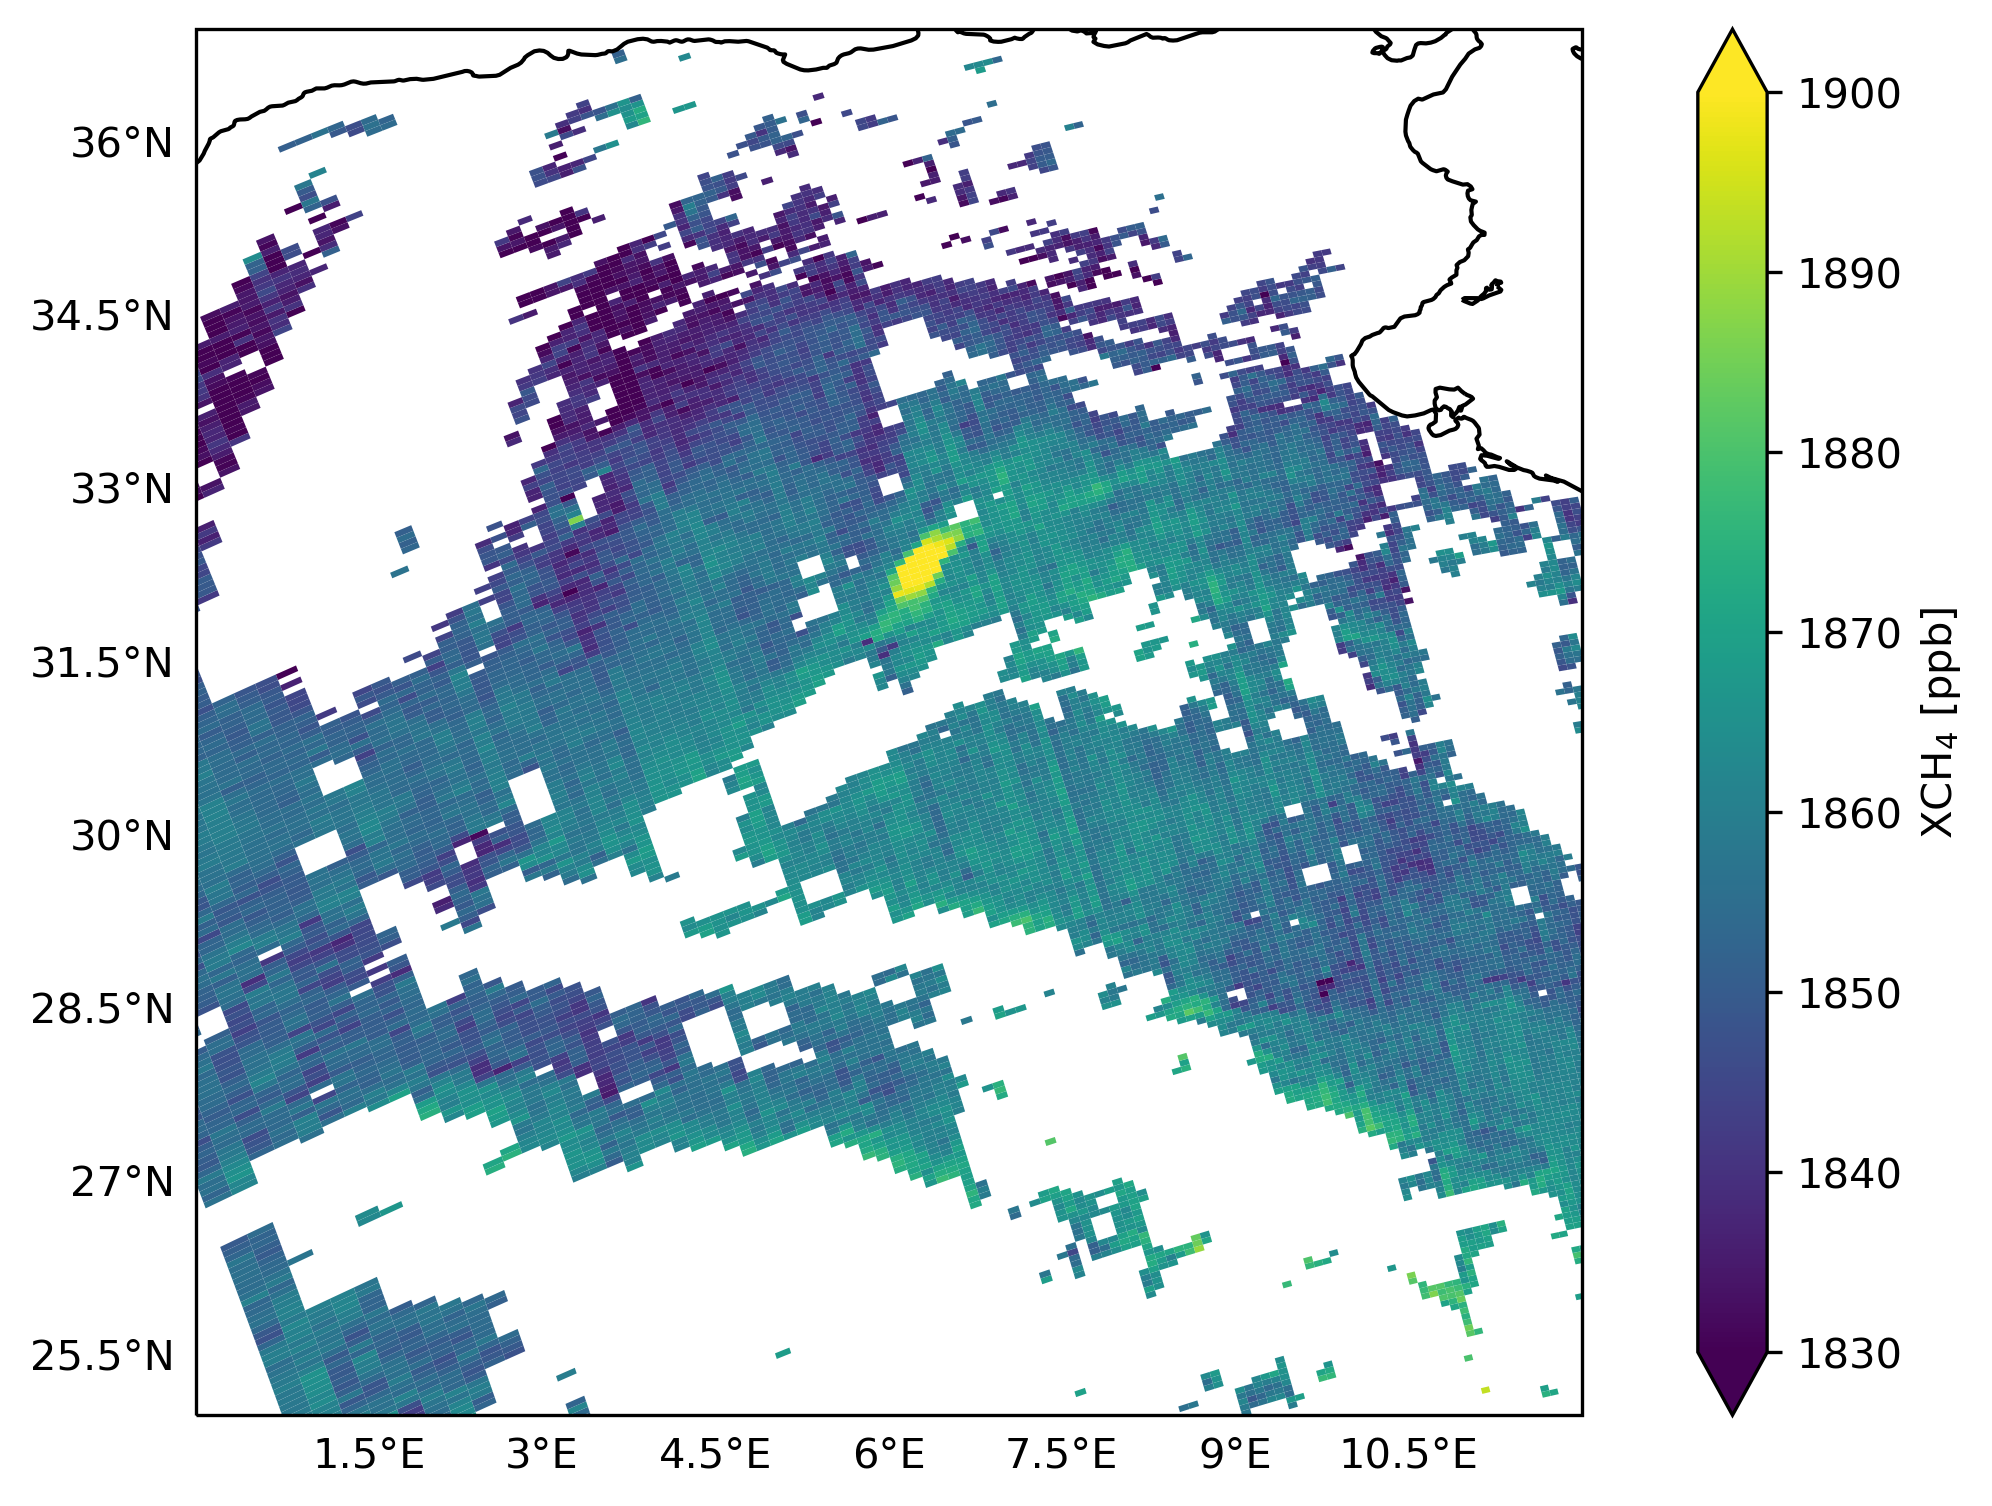
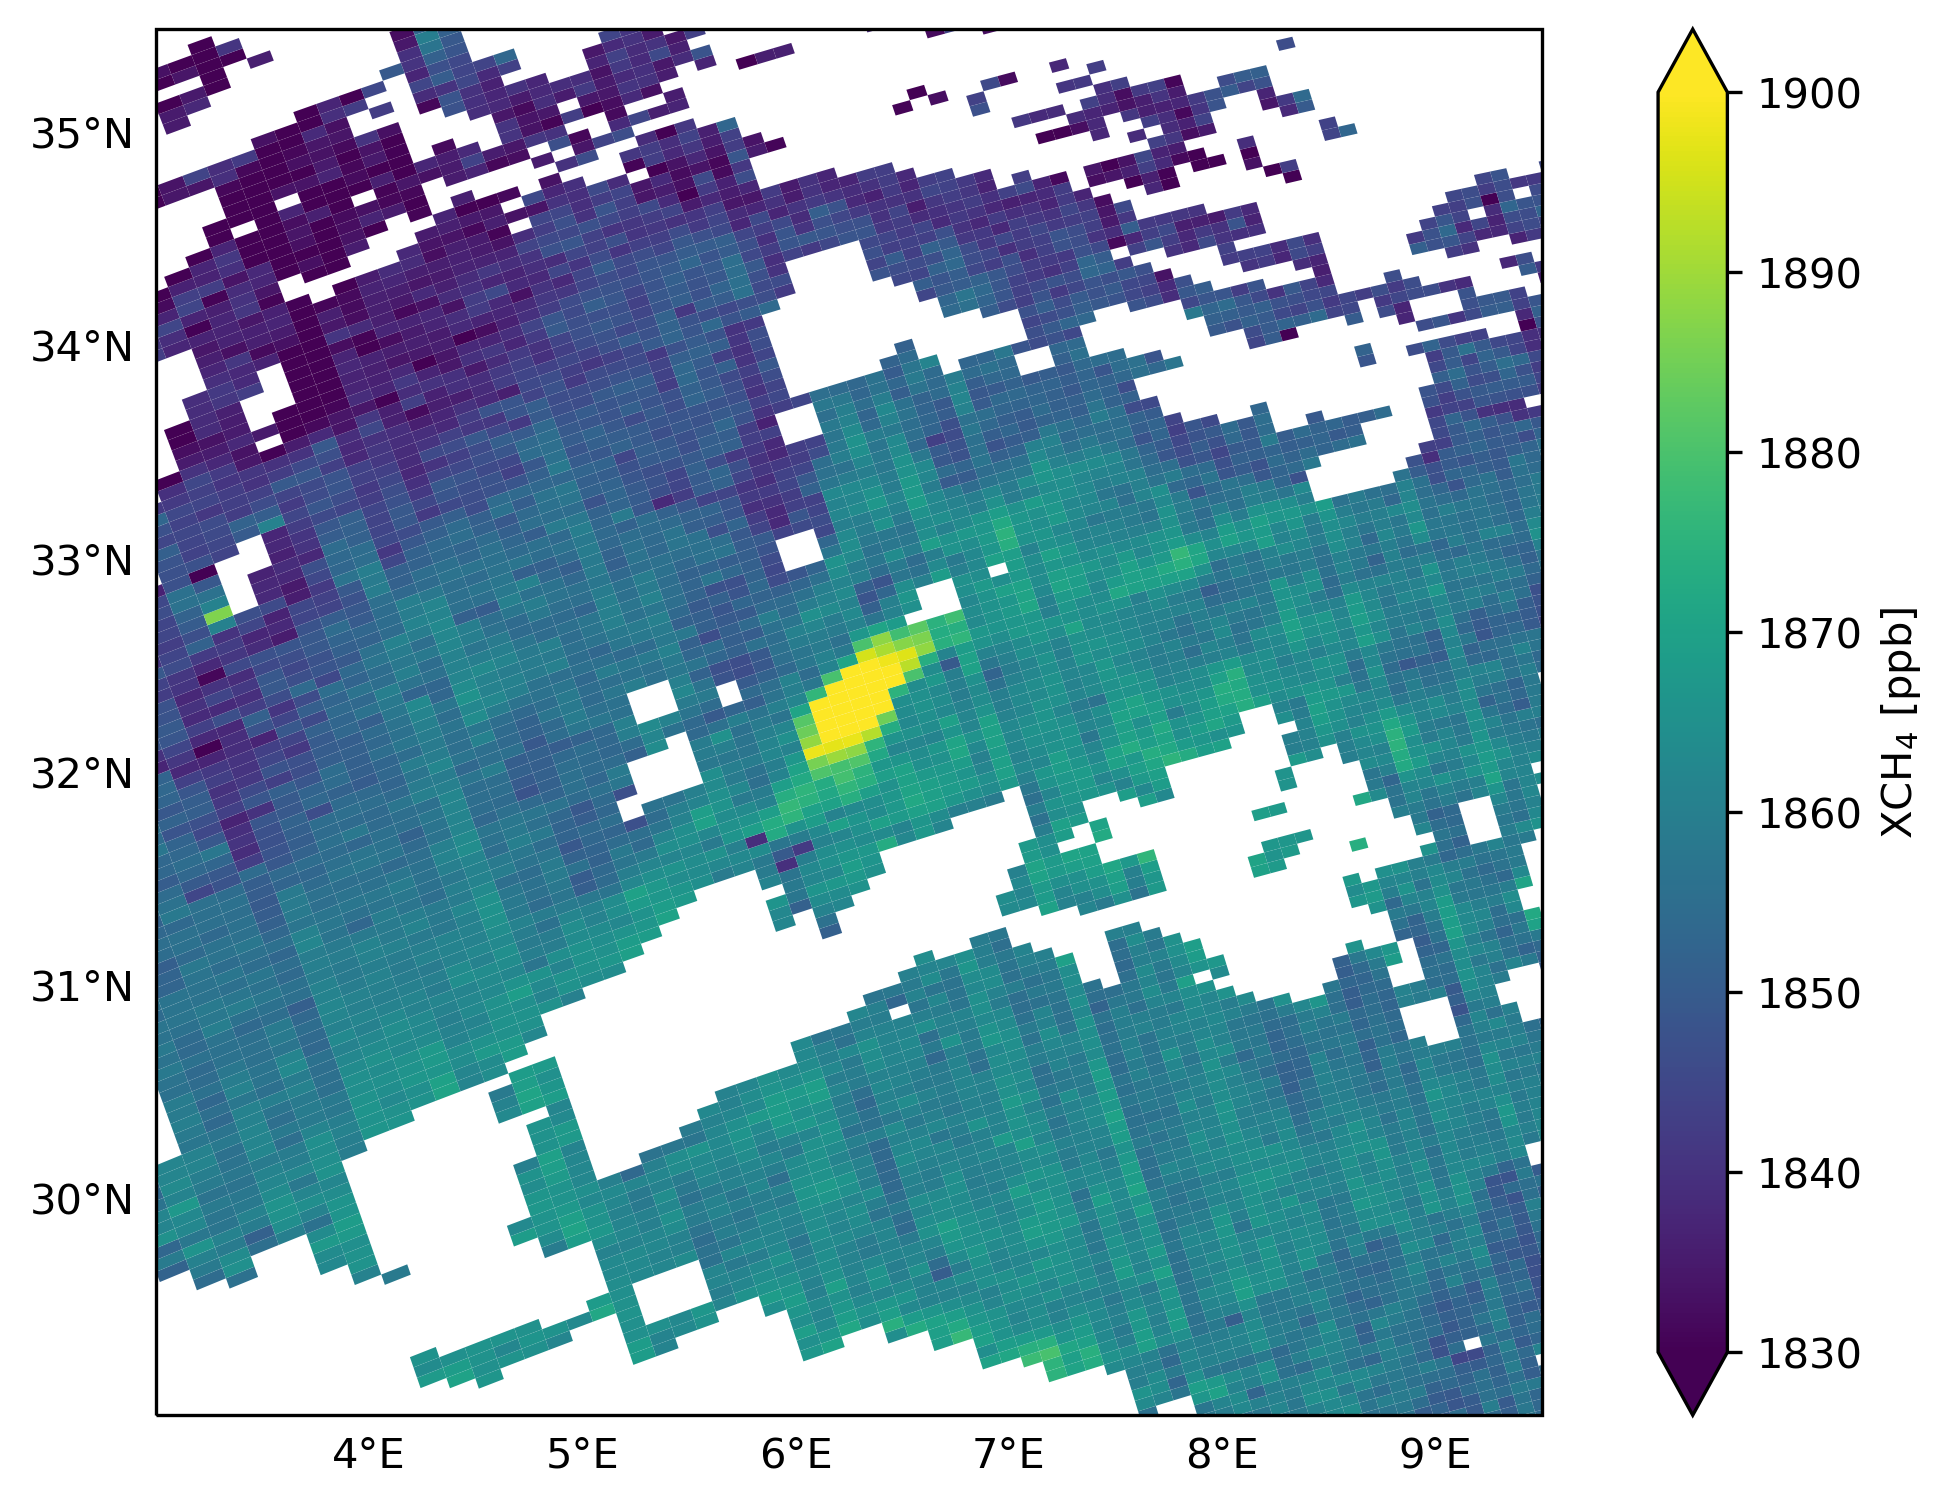
update PUM

diff --git a/PUM.md b/PUM.md
@@ -2,13 +2,13 @@
 Nicholas Balasus\
 7 July 2023
 
-(1) Introduction
+#### (1) Introduction
 The blended TROPOMI+GOSAT files are formed by applying the correction described in Balasus et al. (2023) to the variable `methane_mixing_ratio_bias_corrected` in the operational TROPOMI files. This adds the new variable of `methane_mixing_ratio_blended`. The correction is applicable to the files with a processor version of 02.04.00, 02.05.00, or 02.06.00 and to observations in those files with `qa_value` == 1.0. The following sections describe downloading the data, the file names, the file contents, and how to plot the file contents using Python.
 
-(2) Downloading the data
----
+#### (2) Downloading the data
+-
 
-(3) File names
+#### (3) File names
 An example file name is:
 ```
 S5P_BLND_L2__CH4____20191215T112041_20191215T130211_11252_03_020400_20230614T125420.nc
@@ -29,7 +29,7 @@ The only differences between the original operational file name (below) and the 
 S5P_RPRO_L2__CH4____20191215T112041_20191215T130211_11252_03_020400_20221119T003414.nc
 ```
 
-(4) File contents
+#### (4) File contents
 The files contain the subset of soundings from the OFFL/RPRO files that had a `qa_value` == 1.0. All other observations are excluded because the blended TROPOMI+GOSAT correction is not valid to apply to them. Additionally, only a subset of variables is included in the BLND files (and they no longer reside in netCDF groups). The files have dimensions of `nobs`, `layer`, and `corner`. All variables are the same as described in the TROPOMI methane PUM except for `methane_mixing_ratio_blended` (derived in this work) and `time_utc` (expanded to all observations in these files). The following is an example for the orbit number 11252 file listed above.
 ```
 <class 'netCDF4._netCDF4.Dataset'>
@@ -41,7 +41,7 @@ root group (NETCDF4 data model, file format HDF5):
     groups: 
 ```
 
-(5) Plotting
+#### (5) Plotting
 Included here is a simple example for how to plot the data in Python. The pixels are shown as their full extents (using latitude and longitude bounds), though a scatter plot of the latitude and longitude centers can be used for a quick look. The optional coastal filter from Balasus et al. (2023) is used.
 
 ```
@@ -51,24 +51,25 @@ import cartopy.crs as ccrs
 from matplotlib.collections import PolyCollection
 from netCDF4 import Dataset
 
-fig, ax = plt.subplots(figsize=(10, 6),
+fig, ax = plt.subplots(figsize=(10,6),
                        subplot_kw={"projection": ccrs.PlateCarree()})
 
 file = "S5P_BLND_L2__CH4____20191215T112041_20191215T130211_11252_03_020400_20230614T125420.nc"
 with Dataset(file) as ds:
     # Optional coastal filter from Balasus et al. (2023)
-    tropomi_surface_classification = (ds["surface_classification"][:] & 0x03).astype(int)
-    valid_idx = ~((tropomi_surface_classification == 3) | ((tropomi_surface_classification == 2) & (ds["chi_square_SWIR"][:] > 20000)))
+    sc = (ds["surface_classification"][:] & 0x03).astype(int)
+    valid_idx = ~((sc == 3) | ((sc == 2) & (ds["chi_square_SWIR"][:] > 20000)))
     lon_bounds = ds["longitude_bounds"][:][valid_idx]
     lat_bounds = ds["latitude_bounds"][:][valid_idx]
     xch4_blended = ds["methane_mixing_ratio_blended"][:][valid_idx]
 
-verts = [np.column_stack((lon_bounds[i, :], lat_bounds[i, :])) for i in range(len(xch4_blended))]
+verts = [np.column_stack((lon_bounds[i, :], lat_bounds[i, :]))
+         for i in range(len(xch4_blended))]
 pc = ax.add_collection(PolyCollection(verts, array=xch4_blended))
 pc.set_clim(vmin=1830, vmax=1900)
 
 ax.coastlines()
-ax.set_extent([0, 12, 25, 37])
+ax.set_extent([3.0, 9.5, 29.0, 35.5], crs=ccrs.PlateCarree())
 gl = ax.gridlines(draw_labels=True, zorder=-1, linewidth=0)
 gl.top_labels = gl.right_labels = False
 plt.colorbar(pc, ax=ax, extend="both", label=r"XCH$_4$ [ppb]")
